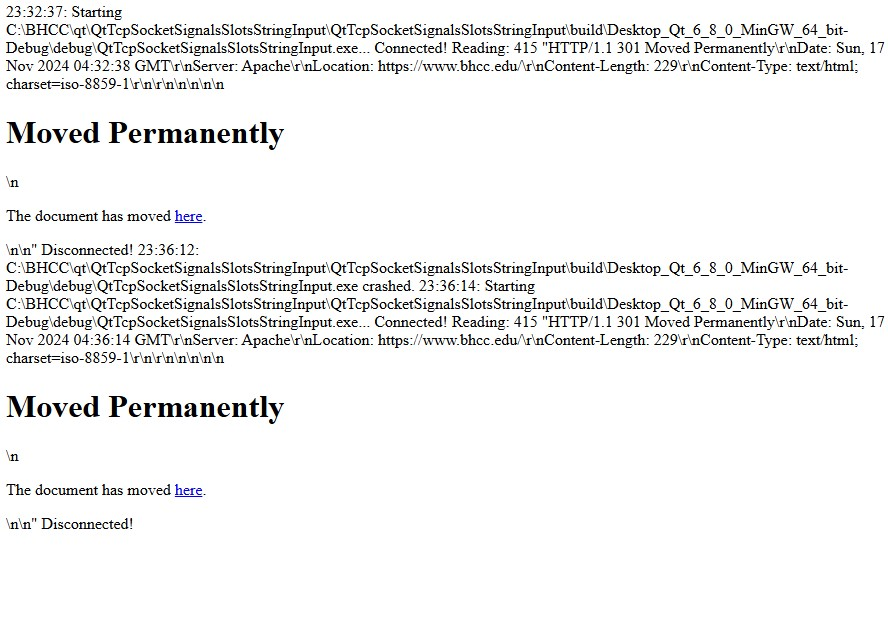
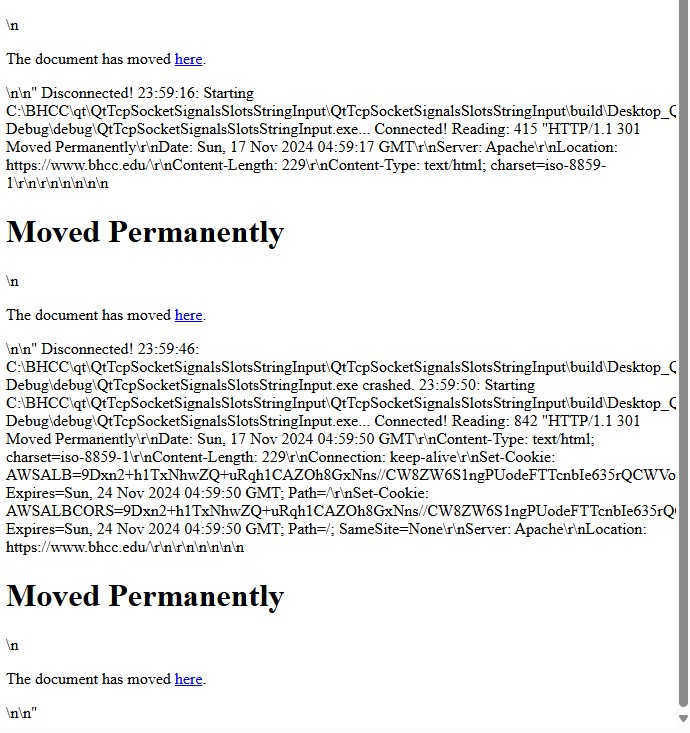
Aplication Outcome
Aplication Outcome

Changed region(s): [[0.0, 0.0, 1.0, 0.9937], [0.0, 0.8732, 0.3043, 0.9334], [0.0, 0.9635, 0.0609, 0.9937]]

diff --git a/QtTcpSocketSignalsSlotsStringInput/QtTcpSocketSignalsSlotsStringInput/AplicationOutput.html b/QtTcpSocketSignalsSlotsStringInput/QtTcpSocketSignalsSlotsStringInput/AplicationOutput.html
@@ -11,3 +11,19 @@ Connected!
 Reading: 415
 "HTTP/1.1 301 Moved Permanently\r\nDate: Sun, 17 Nov 2024 04:36:14 GMT\r\nServer: Apache\r\nLocation: https://www.bhcc.edu/\r\nContent-Length: 229\r\nContent-Type: text/html; charset=iso-8859-1\r\n\r\n<!DOCTYPE HTML PUBLIC \"-//IETF//DTD HTML 2.0//EN\">\n<html><head>\n<title>301 Moved Permanently</title>\n</head><body>\n<h1>Moved Permanently</h1>\n<p>The document has moved <a href=\"https://www.bhcc.edu/\">here</a>.</p>\n</body></html>\n"
 Disconnected!
+
+
+
+
+
+23:59:16: Starting C:\BHCC\qt\QtTcpSocketSignalsSlotsStringInput\QtTcpSocketSignalsSlotsStringInput\build\Desktop_Qt_6_8_0_MinGW_64_bit-Debug\debug\QtTcpSocketSignalsSlotsStringInput.exe...
+Connected!
+Reading: 415
+"HTTP/1.1 301 Moved Permanently\r\nDate: Sun, 17 Nov 2024 04:59:17 GMT\r\nServer: Apache\r\nLocation: https://www.bhcc.edu/\r\nContent-Length: 229\r\nContent-Type: text/html; charset=iso-8859-1\r\n\r\n<!DOCTYPE HTML PUBLIC \"-//IETF//DTD HTML 2.0//EN\">\n<html><head>\n<title>301 Moved Permanently</title>\n</head><body>\n<h1>Moved Permanently</h1>\n<p>The document has moved <a href=\"https://www.bhcc.edu/\">here</a>.</p>\n</body></html>\n"
+Disconnected!
+23:59:46: C:\BHCC\qt\QtTcpSocketSignalsSlotsStringInput\QtTcpSocketSignalsSlotsStringInput\build\Desktop_Qt_6_8_0_MinGW_64_bit-Debug\debug\QtTcpSocketSignalsSlotsStringInput.exe crashed.
+
+23:59:50: Starting C:\BHCC\qt\QtTcpSocketSignalsSlotsStringInput\QtTcpSocketSignalsSlotsStringInput\build\Desktop_Qt_6_8_0_MinGW_64_bit-Debug\debug\QtTcpSocketSignalsSlotsStringInput.exe...
+Connected!
+Reading: 842
+"HTTP/1.1 301 Moved Permanently\r\nDate: Sun, 17 Nov 2024 04:59:50 GMT\r\nContent-Type: text/html; charset=iso-8859-1\r\nContent-Length: 229\r\nConnection: keep-alive\r\nSet-Cookie: AWSALB=9Dxn2+h1TxNhwZQ+uRqh1CAZOh8GxNns//CW8ZW6S1ngPUodeFTTcnbIe635rQCWVols1ViMr1OGaZ7Z+koxZhOSegDYSblAO1F5sVqwyWcdoaYcSBq29KYf6g0B; Expires=Sun, 24 Nov 2024 04:59:50 GMT; Path=/\r\nSet-Cookie: AWSALBCORS=9Dxn2+h1TxNhwZQ+uRqh1CAZOh8GxNns//CW8ZW6S1ngPUodeFTTcnbIe635rQCWVols1ViMr1OGaZ7Z+koxZhOSegDYSblAO1F5sVqwyWcdoaYcSBq29KYf6g0B; Expires=Sun, 24 Nov 2024 04:59:50 GMT; Path=/; SameSite=None\r\nServer: Apache\r\nLocation: https://www.bhcc.edu/\r\n\r\n<!DOCTYPE HTML PUBLIC \"-//IETF//DTD HTML 2.0//EN\">\n<html><head>\n<title>301 Moved Permanently</title>\n</head><body>\n<h1>Moved Permanently</h1>\n<p>The document has moved <a href=\"https://www.bhcc.edu/\">here</a>.</p>\n</body></html>\n"
